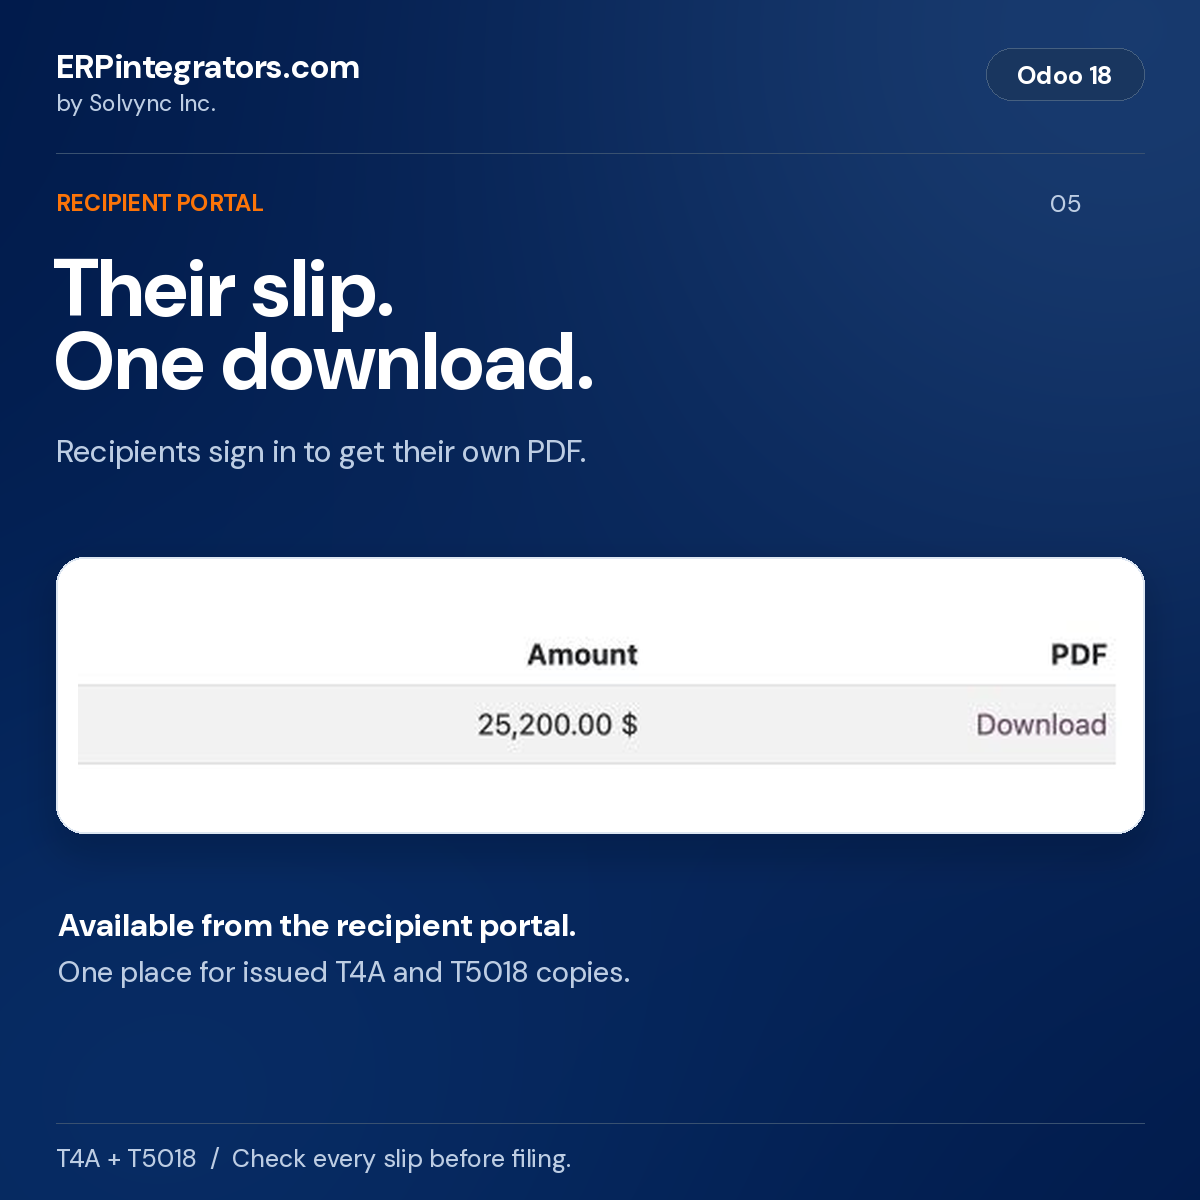
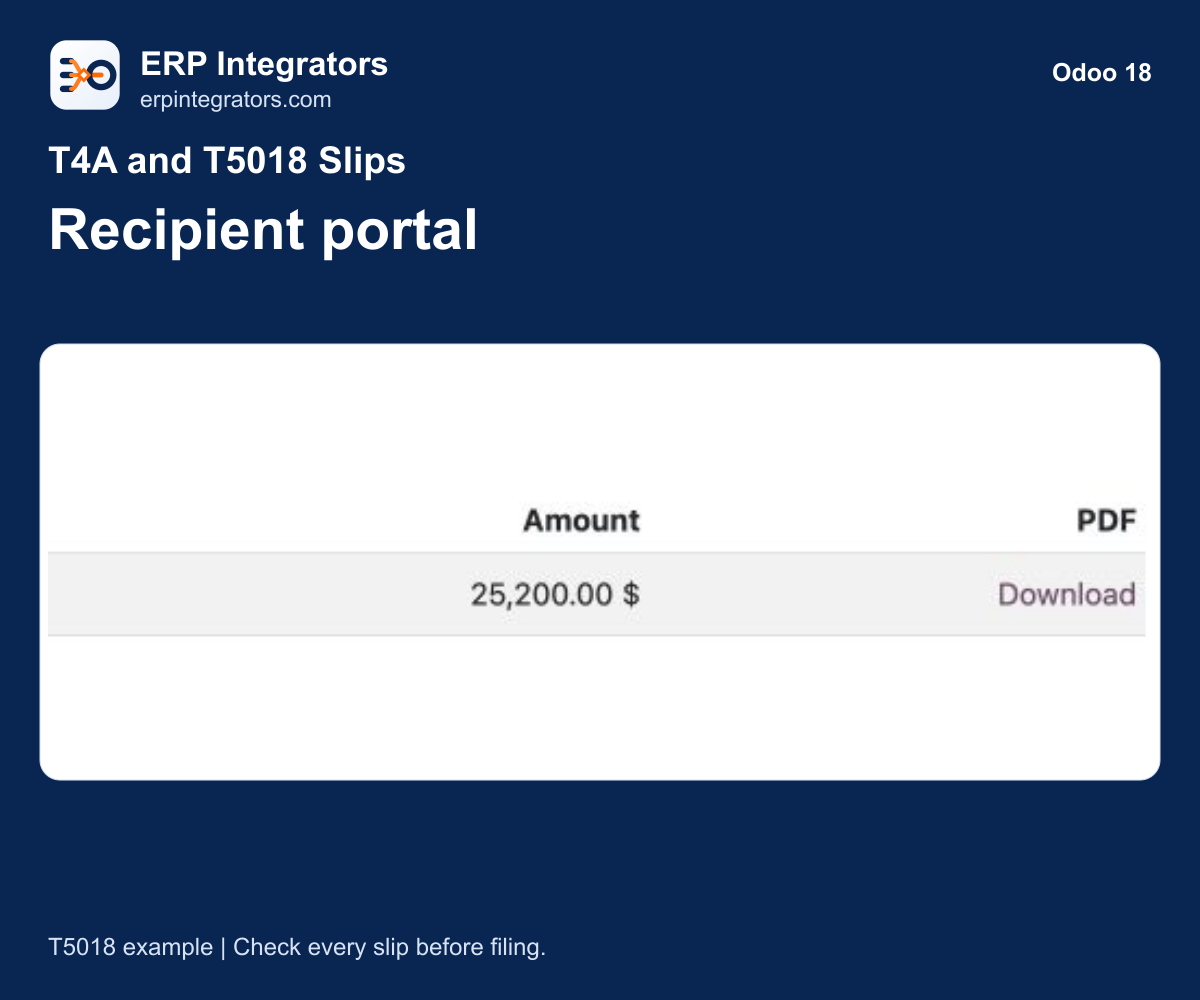
Refresh marketplace branding and release-specific screenshots

diff --git a/l10n_ca_contractor_slips/static/description/index.html b/l10n_ca_contractor_slips/static/description/index.html
@@ -1,16 +1,16 @@
 <div itemscope="" itemtype="https://schema.org/SoftwareApplication">
+<div class="d-flex align-items-center mb-4" style="color:#092653"><img src="logo.png" width="64" height="64" alt="ERP Integrators" class="mr-3"/><div><p class="mb-1" style="font-size:24px;font-weight:600">ERP Integrators</p><p class="mb-0">erpintegrators.com | Solvync Inc.</p></div></div>
 <h1 itemprop="name" id="t4a-and-t5018-slips">T4A and T5018 Slips</h1>
 <section class="mb-4">
 <h2>Release details</h2>
 <p>Version <span itemprop="softwareVersion">18.0.1.4</span>, stable release.</p>
 <p itemprop="softwareRequirements">Requires Odoo 18 Community or Enterprise, on Odoo.sh or your own server. Odoo Online is not supported.</p>
-<p><span itemprop="offers" itemscope="" itemtype="https://schema.org/Offer">Module price: US$<span itemprop="price">199</span> <span itemprop="priceCurrency">USD</span>.</span> Hosting, Odoo subscriptions and separately agreed services are excluded.</p>
-<p>Published by ERPintegrators.com, by <span itemprop="publisher" itemscope="" itemtype="https://schema.org/Organization"><span itemprop="name">Solvync Inc.</span></span>. Check every slip against your records before filing.</p>
+<p>See the current Odoo Apps checkout price for this version. Hosting, Odoo subscriptions and separately agreed services are excluded.</p>
+<p>Published by ERP Integrators, a product brand of <span itemprop="publisher" itemscope="" itemtype="https://schema.org/Organization"><span itemprop="name">Solvync Inc.</span></span>. Check every slip against your records before filing.</p>
 </section>
 
 <p>License: LGPL-3</p>
-<p><strong>ERPintegrators.com</strong> | by <strong>Solvync
-Inc.</strong></p>
+
 <p>Prepare T4A box 048 and T5018 contractor tax slips in Odoo 18, using
 the vendor payments recorded in your accounting. Review each
 contractor's total, trace the bills and payments behind it, and create a
@@ -63,29 +63,26 @@ example uses the 2026 XML submission format. The accounting and filing
 limits below apply to both Community and Enterprise.</p>
 <div class="row">
 <div class="col-12 col-lg-6 mb-4">
-<img class="img-fluid" width="1200" height="1200" src="screenshots/01-reporting-period.png" alt="T5018 return in Odoo 18 showing the closed 2025 calendar period, three slips and CAD34,650 reported" />
+<img class="img-fluid" width="1200" height="1000" src="screenshots/01-reporting-period.png" alt="T5018 return in Odoo 18 showing the closed 2025 calendar period, three slips and CAD34,650 reported" />
 </div>
 <div class="col-12 col-lg-6 mb-4">
-<img class="img-fluid" width="1200" height="1200" src="screenshots/02-reported-amount.png" alt="T5018 example: Cedarline Framing Ltd., CAD24,000 before tax and CAD25,200 reported with tax" />
+<img class="img-fluid" width="1200" height="1000" src="screenshots/02-reported-amount.png" alt="T5018 example: Cedarline Framing Ltd., CAD24,000 before tax and CAD25,200 reported with tax" />
 </div>
 <div class="col-12 col-lg-6 mb-4">
-<img class="img-fluid" width="1200" height="1200" src="screenshots/03-payment-trace.png" alt="Two dated matched vendor bills supporting Cedarline Framing Ltd. T5018 payments" />
+<img class="img-fluid" width="1200" height="1000" src="screenshots/03-payment-trace.png" alt="Two dated matched vendor bills supporting Cedarline Framing Ltd. T5018 payments" />
 </div>
 <div class="col-12 col-lg-6 mb-4">
-<img class="img-fluid" width="1200" height="1200" src="screenshots/04-cra-xml.png" alt="Finalized T5018 return with Download CRA file, ready for review and separate upload to CRA" />
+<img class="img-fluid" width="1200" height="1000" src="screenshots/04-cra-xml.png" alt="Finalized T5018 return with Download CRA file, ready for review and separate upload to CRA" />
 </div>
 <div class="col-12 col-lg-6 mb-4">
-<img class="img-fluid" width="1200" height="1200" src="screenshots/05-recipient-portal.png" alt="Recipient portal showing the contractor's own 2025 T5018 slip, CAD25,200 reported and a PDF download" />
+<img class="img-fluid" width="1200" height="1000" src="screenshots/05-recipient-portal.png" alt="Recipient portal showing the contractor's own 2025 T5018 slip, CAD25,200 reported and a PDF download" />
 </div>
 </div>
 
-<h3 id="watch-the-workflow-in-odoo-18">Watch the workflow in Odoo
-18</h3>
-<img class="img-fluid" width="720" height="450" src="t4a-t5018-odoo-18-walkthrough.gif" alt="Odoo 18 T5018 walkthrough: calculate three slips, inspect the amount and payment trace, finalize and download the CRA XML file" />
+<h3 id="t5018-review-in-odoo-18">T5018 return review in Odoo 18</h3>
+<img class="img-fluid" width="960" height="800" src="t4a-t5018-odoo-18-walkthrough.gif" alt="Odoo 18 T5018 sequence: return review, reported amounts, matched payments and saved CRA XML" />
 
-<p>This 16-second T5018 walkthrough shows how to calculate slips, review
-the contractor's amount and matched bills, finalize, then download the
-CRA file. Review the file and upload it to CRA separately using your own
+<p>This 16-second T5018 sequence shows recorded return review, reported amounts, matched payments and the saved CRA XML download. Review the file and upload it to CRA separately using your own
 authorized account. Downloading the XML does not file the return or
 establish CRA acceptance.</p>
 <h2 id="questions-about-t4a-and-t5018-in-odoo">Questions about T4A and
@@ -122,13 +119,7 @@ Odoo Online does not allow installation of this custom Python module.
 The accounting workflow uses Canadian localization and the setup
 described below.</p>
 <h3 id="what-does-the-module-cost">What does the module cost?</h3>
-<p>The Odoo Apps price is <strong>US$199</strong> for this Odoo version.
-The LGPL-3 license remains in place, and the source repository is
-public. Hosting and Odoo subscriptions are separate. Bug fixes and
-configuration advice follow the Odoo Apps support terms; installation,
-customization and other services are quoted separately. Check each slip
-against your records before filing. Your business remains responsible
-for the return and recipient delivery.</p>
+<p>See the current checkout price for this Odoo version. The LGPL-3 license remains in place, and the source repository is public. Hosting and Odoo subscriptions are separate. Bug fixes and configuration advice follow the Odoo Apps support terms; installation, customization and other services are quoted separately. Check each slip against your records before filing.</p>
 <h3 id="who-should-maintain-the-annual-filing-setup">Who should maintain
 the annual filing setup?</h3>
 <p>Assign an owner to check the current CRA schema, form requirements
